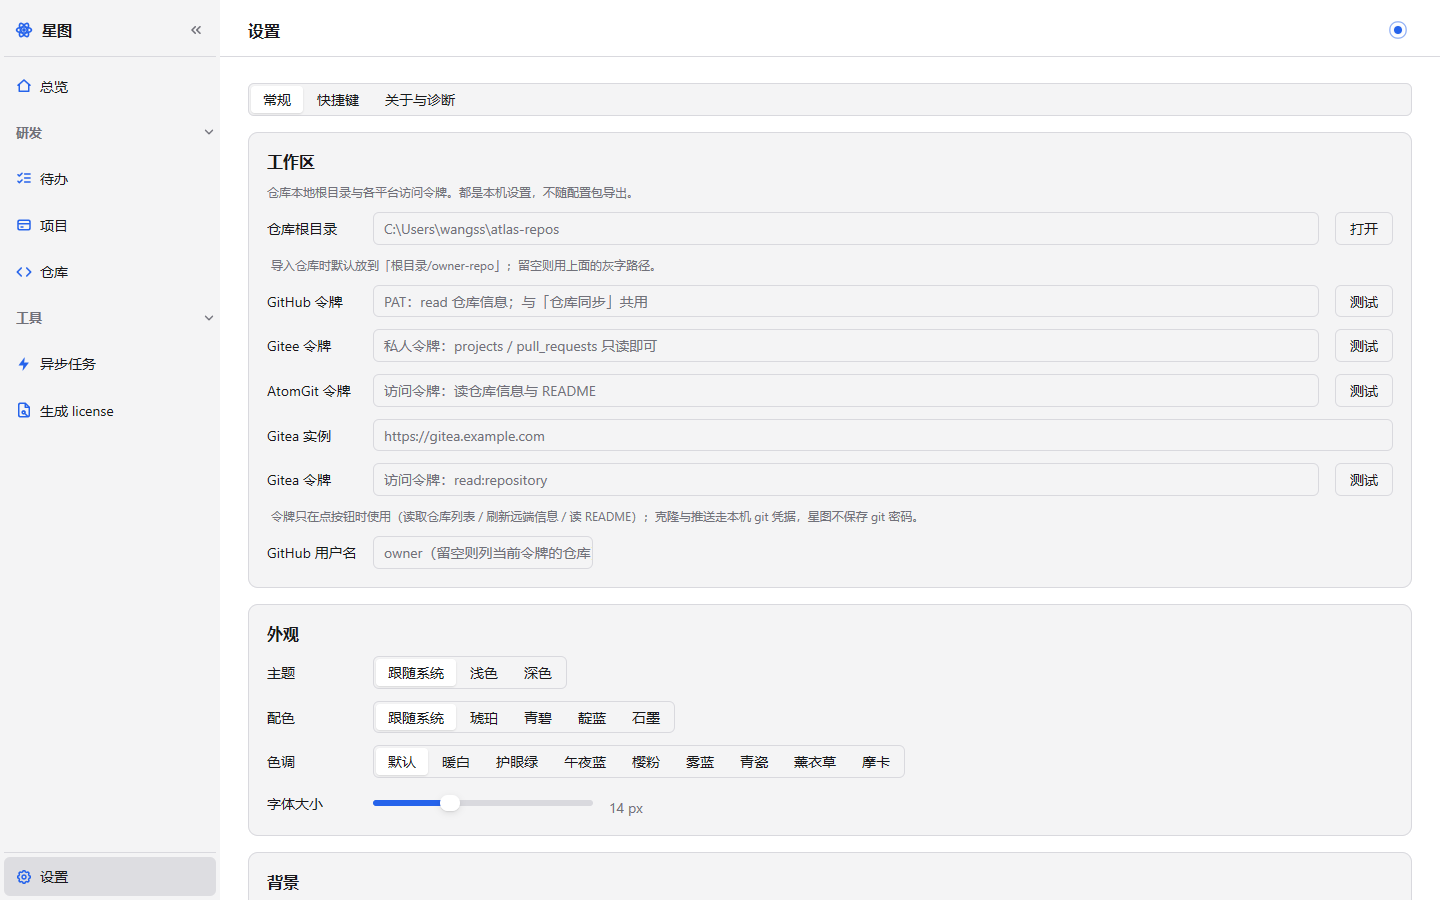
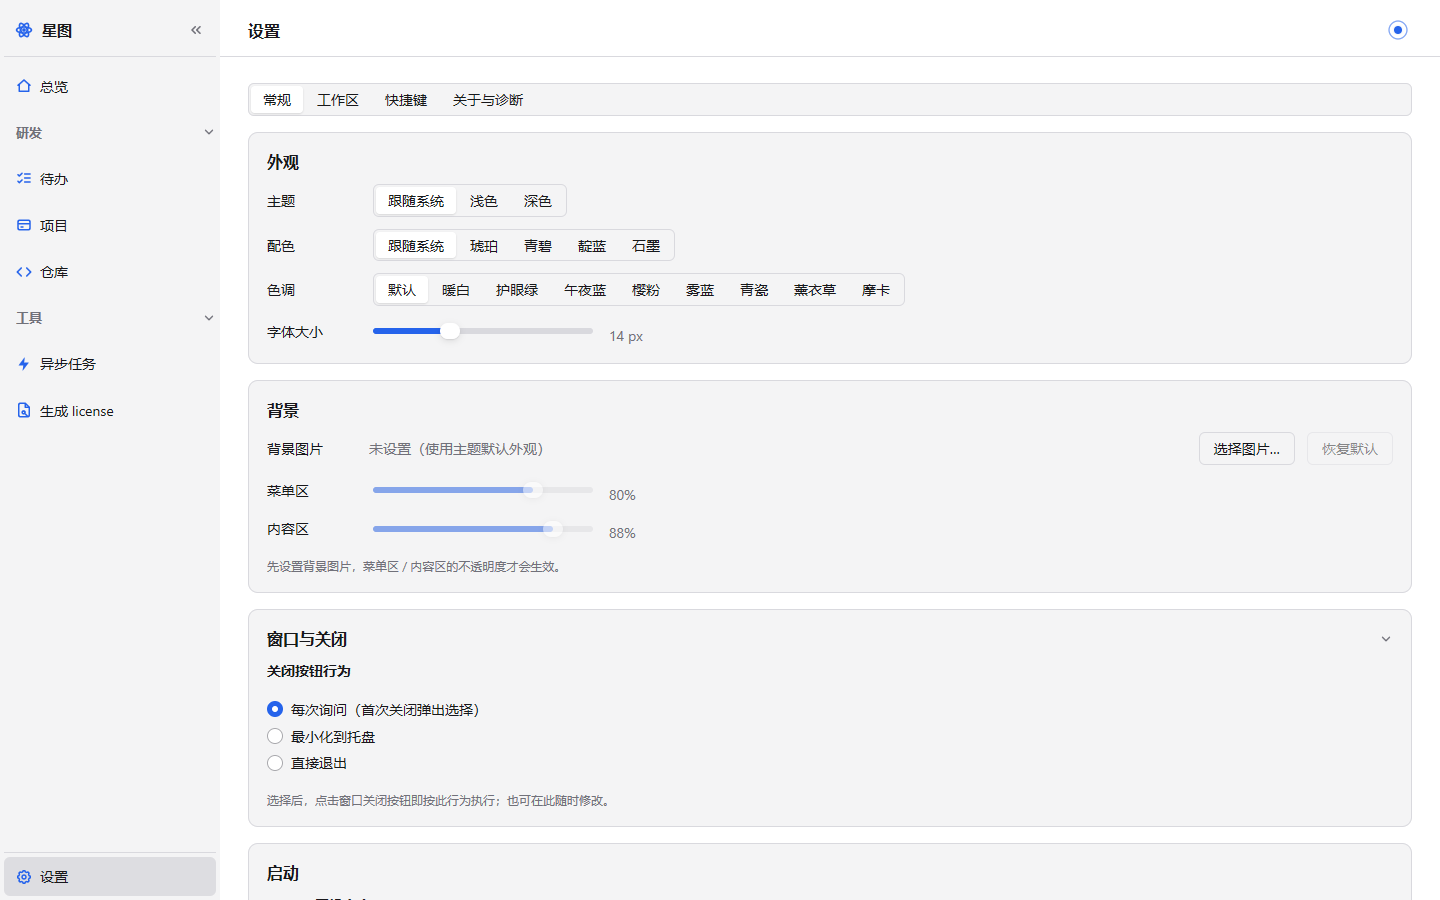
feat: v0.3.1 —— 工作区独立分页，导入改走轻量/重量级任务进度

diff --git a/internal/view/atlas_batch.go b/internal/view/atlas_batch.go
@@ -431,30 +431,91 @@ func (a *App) pickLocalRepos(projectID int64) {
 			case len(dirs) == 0:
 				// 取消：什么都不做，弹窗保持打开，用户可以继续贴地址。
 			default:
-				added, skipped, firstSkip := a.importLocalRepos(dirs, projectID)
-				msg := "已从本地导入 " + itoa(added) + " 个仓库"
-				if skipped > 0 {
-					msg += "，跳过 " + itoa(skipped) + " 个"
-					if firstSkip != "" {
-						msg += "（" + firstSkip + "）"
-					}
-				}
-				a.toast(msg)
-				if added > 0 {
-					a.closeAtlasDialog()
-				}
+				// 选择框已经关闭，剩下的是逐个目录跑 git：交给重量级任务
+				// （全窗口遮罩 + 进度），期间界面不可操作，避免用户以为卡死。
+				a.startLocalImport(dirs, projectID)
 			}
 			a.requestFrame()
 		})
 	}()
 }
 
-// importLocalRepos 解析并登记一批本地目录；返回成功数、跳过数与第一条跳过原因。
+// startLocalImport 在重量级任务里解析并登记一批本地目录。
+//
+// 重量级而不是轻量级：这一步会逐个目录读 .git（几十个目录时可能要数秒），
+// 且中途不该让用户再点一次导入——遮罩 + 进度条正好表达「正在干活，别动」。
+func (a *App) startLocalImport(dirs []string, projectID int64) {
+	if a.heavyRunning || a.taskRunning {
+		a.toast("已有任务在执行，请稍候")
+		return
+	}
+	if a.store == nil {
+		a.toast("本次运行不落库，无法导入")
+		return
+	}
+	// 快照既有的仓库登记：去重逻辑在协程里跑，不能再去读 a.atlas()。
+	existing := append([]store.Repo(nil), a.atlas().repos...)
+	label := "从本地导入（" + itoa(len(dirs)) + " 个文件夹）"
+	// 导入弹窗先关掉：接下来是遮罩的世界，弹窗留在下面没有意义。
+	a.closeAtlasDialog()
+	a.heavyRunning = true
+	a.heavyProgress = 0
+	a.heavyLabel = label
+	a.requestFrame()
+
+	go func() {
+		defer logging.Recover("atlas-local-import")
+
+		added, skipped, firstSkip, failed := a.importLocalCore(dirs, projectID, existing,
+			func(done, total int) {
+				p := float64(done) / float64(total)
+				mygo.RunOnMain(func() {
+					a.heavyProgress = p
+					a.requestFrame()
+				})
+			})
+
+		mygo.RunOnMain(func() {
+			a.heavyRunning = false
+			a.heavyProgress = 0
+			a.heavyLabel = ""
+			a.reloadAtlas()
+
+			status := "已完成"
+			if failed > 0 {
+				status = "失败"
+			}
+			a.pushTaskRow(label+"（导入 "+itoa(added)+" / 跳过 "+itoa(skipped)+"）", "重量级", status)
+			msg := "已从本地导入 " + itoa(added) + " 个仓库"
+			if skipped > 0 {
+				msg += "，跳过 " + itoa(skipped) + " 个"
+				if firstSkip != "" {
+					msg += "（" + firstSkip + "）"
+				}
+			}
+			a.toast(msg)
+			a.requestFrame()
+		})
+	}()
+}
+
+// importLocalRepos 解析并登记一批本地目录（同步版，测试与兜底用）。
 func (a *App) importLocalRepos(dirs []string, projectID int64) (added, skipped int, firstSkip string) {
-	d := a.atlas()
-	byPath := make(map[string]bool, len(d.repos))
-	byName := make(map[string]bool, len(d.repos))
-	for _, r := range d.repos {
+	existing := append([]store.Repo(nil), a.atlas().repos...)
+	added, skipped, firstSkip, _ = a.importLocalCore(dirs, projectID, existing, nil)
+	a.reloadAtlas()
+	return added, skipped, firstSkip
+}
+
+// importLocalCore 逐目录解析并写库；不碰 a.atlas() 与 reloadAtlas，因此可以在
+// 协程里跑（store 自身是串行化的）。done 用于推进进度（可空）。
+//
+// 返回成功数、跳过数、第一条跳过原因、写库失败数。
+func (a *App) importLocalCore(dirs []string, projectID int64, existing []store.Repo,
+	done func(done, total int)) (added, skipped int, firstSkip string, failed int) {
+	byPath := make(map[string]bool, len(existing))
+	byName := make(map[string]bool, len(existing))
+	for _, r := range existing {
 		byPath[strings.ToLower(filepath.Clean(r.LocalPath))] = true
 		byName[strings.ToLower(r.Name)] = true
 	}
@@ -464,15 +525,17 @@ func (a *App) importLocalRepos(dirs []string, projectID int64) (added, skipped i
 			firstSkip = reason
 		}
 	}
-	for _, dir := range dirs {
+	for i, dir := range dirs {
 		dir = filepath.Clean(strings.TrimSpace(dir))
 		if byPath[strings.ToLower(dir)] {
 			skip(filepath.Base(dir) + "：已在列表里")
+			reportProgress(done, i+1, len(dirs))
 			continue
 		}
 		st := gitx.Inspect(dir)
 		if !st.IsRepo {
 			skip(filepath.Base(dir) + "：不是 git 仓库")
+			reportProgress(done, i+1, len(dirs))
 			continue
 		}
 		name := ""
@@ -487,6 +550,7 @@ func (a *App) importLocalRepos(dirs []string, projectID int64) (added, skipped i
 		}
 		if byName[strings.ToLower(name)] {
 			skip(name + "：同名仓库已存在")
+			reportProgress(done, i+1, len(dirs))
 			continue
 		}
 		r := a.inspectRepo(store.Repo{
@@ -500,15 +564,24 @@ func (a *App) importLocalRepos(dirs []string, projectID int64) (added, skipped i
 		})
 		if _, err := a.store.CreateRepo(r); err != nil {
 			logging.Errv("atlas", "导入本地仓库失败", err, "dir", dir)
+			failed++
 			skip(filepath.Base(dir) + "：写库失败")
+			reportProgress(done, i+1, len(dirs))
 			continue
 		}
 		byPath[strings.ToLower(dir)] = true
 		byName[strings.ToLower(name)] = true
 		added++
+		reportProgress(done, i+1, len(dirs))
 	}
-	a.reloadAtlas()
-	return added, skipped, firstSkip
+	return added, skipped, firstSkip, failed
+}
+
+// reportProgress 安全地回调进度（done 可能为 nil）。
+func reportProgress(done func(done, total int), i, n int) {
+	if done != nil {
+		done(i, n)
+	}
 }
 
 // ---- 远程批量导入 ----

diff --git a/internal/view/page_settings.go b/internal/view/page_settings.go
@@ -38,16 +38,19 @@ func (a *App) settingsPage(c *ui.Context, t *ui.Theme) {
 			a.setSettingsGroup(group)
 		}
 		general := group == settingsGroupGeneral
+		workspace := group == settingsGroupWorkspace
 		shortcuts := group == settingsGroupShortcuts
 		about := group == settingsGroupAbout
 		pages := group == settingsGroupPages
 
-		if general {
-			// ===== 工作区（仓库管理的本机参数）=====
-			// 放在最前：这是本产品最常改的一组设置（根目录 + 各平台令牌），
-			// 不该让人先滚过外观、背景、窗口才看得到。
-			kit.Section(c, t, "工作区", func() { a.workspaceSection(c, t) })
+		// ===== 工作区（仓库管理的本机参数）=====
+		// 单独一页：根目录与四个平台的令牌属于「业务配置」，和主题/字体这类
+		// 外观偏好混在一起时，用户要滚过整页才能找到它。
+		if workspace {
+			a.workspaceSection(c, t)
+		}
 
+		if general {
 			// ===== 外观 =====
 			kit.Section(c, t, "外观", func() {
 				settingRow(c, t, "主题", func() {
@@ -244,6 +247,7 @@ func (a *App) settingsPage(c *ui.Context, t *ui.Theme) {
 // 设置页的分组。顺序即分段控件里的顺序。
 const (
 	settingsGroupGeneral   = iota // 常规：外观 / 背景 / 窗口与关闭 / 启动
+	settingsGroupWorkspace        // 工作区：仓库根目录 + 各平台令牌
 	settingsGroupShortcuts        // 快捷键
 	settingsGroupAbout            // 关于与诊断
 	settingsGroupPages            // 页面：各页面自己声明的设置（没有时不显示这一页）
@@ -255,7 +259,7 @@ const (
 // 对用户没有意义，还会让别人以为页面设置是必须的。页面是否注册在编译期就定了，
 // 所以这个列表在一次运行里不会变。
 func settingsGroupLabels() []string {
-	labels := []string{"常规", "快捷键", "关于与诊断"}
+	labels := []string{"常规", "工作区", "快捷键", "关于与诊断"}
 	if len(pageSettingItems()) > 0 {
 		labels = append(labels, "页面")
 	}
@@ -281,7 +285,10 @@ func (a *App) setSettingsGroup(g int) {
 }
 
 // settingsGroupKey 当前分组在页面私有状态里的键名。
-const settingsGroupKey = "group"
+//
+// 带 -v2：分组顺序在 v0.3.0 变过（插入「工作区」），旧的下标会被解读成别的页，
+// 换个键名等于「老用户这次回到默认页」，比停在一个奇怪的页面上好。
+const settingsGroupKey = "group-v2"
 
 // settingsOpenKey 分区折叠状态在页面私有状态里的键名。
 const settingsOpenKey = "section-open"

diff --git a/internal/view/atlas_test.go b/internal/view/atlas_test.go
@@ -97,7 +97,7 @@ func TestPagesRenderWithData(t *testing.T) {
 		{"todos", []string{"待办", "把仓库页接上批量推送", "详细填写…"}},
 		{"projects", []string{"项目", "星图", "1 仓库"}},
 		{"repos", []string{"lark203/bestuav-atlas", RepoDirty, "刷新状态", "3 改"}},
-		{"settings", []string{"工作区", "仓库根目录", "GitHub 令牌"}},
+		{"settings", []string{"常规", "工作区", "快捷键", "关于与诊断"}},
 	}
 	for _, tc := range cases {
 		t.Run(tc.page, func(t *testing.T) {
@@ -113,6 +113,23 @@ func TestPagesRenderWithData(t *testing.T) {
 				}
 			}
 		})
+	}
+}
+
+// TestWorkspaceSettingsTab 工作区单独一页：根目录与四个平台的令牌都在这里。
+func TestWorkspaceSettingsTab(t *testing.T) {
+	a, _ := newTestApp(t)
+	a.pageStat(settingsPageID).data[settingsGroupKey] = settingsGroupWorkspace
+
+	tt := renderPage(t, a, "settings")
+	for _, want := range []string{"仓库根目录", "GitHub 令牌", "Gitee 令牌", "AtomGit 令牌", "Gitea 实例"} {
+		if !tt.HasText(want) {
+			t.Errorf("工作区页缺少 %q；实际文本：%v", want, tt.Texts())
+		}
+	}
+	// 常规页的外观设置不应同时出现（一次只渲染一组）。
+	if tt.HasText("字体大小") {
+		t.Errorf("工作区页不应渲染常规页的外观设置")
 	}
 }
 

diff --git a/internal/view/atlas_dialogs.go b/internal/view/atlas_dialogs.go
@@ -393,9 +393,13 @@ func (a *App) importDialog(c *ui.Context, t *ui.Theme) {
 					msg += "，跳过 " + itoa(skipped) + " 个（重复或格式不对）"
 				}
 				a.toast(msg)
+				// 列表这时已经出现（导入只写元数据），随后的克隆/探测走轻量任务：
+				// 页头进度条 + 界面照常可用。
 				switch {
 				case clone && len(ids) > 0:
 					a.cloneRepos(ids)
+				case len(ids) > 0:
+					a.runRepoBatch(batchInspect, ids, "")
 				default:
 					a.inspectAllAsync()
 				}

diff --git a/internal/view/screens_test.go b/internal/view/screens_test.go
@@ -100,4 +100,11 @@ func TestScreenshots(t *testing.T) {
 	a.closeAtlasDialog()
 	a.openCommitDialog([]int64{1, 2})
 	save("atlas-dialog-commit")
+
+	// 重量级任务：本地导入时的全窗口遮罩 + 进度。
+	a.closeAtlasDialog()
+	a.heavyRunning = true
+	a.heavyProgress = 0.45
+	a.heavyLabel = "从本地导入（6 个文件夹）"
+	save("atlas-heavy-import")
 }

diff --git a/docs/使用说明.md b/docs/使用说明.md
@@ -61,6 +61,12 @@
 **导入后克隆**：勾上「导入后克隆」，远程仓库会被 `git clone` 到「本地根目录/owner-repo」，
 进度显示在页头，已有内容的目录不会被覆盖。不勾就只登记元数据，状态显示「未克隆」。
 
+**进度表现**：
+- **本地导入**是重量级任务——原生选择框关闭后，导入弹窗立即关闭，整个窗口变暗并显示进度条，
+  逐个目录解析（期间不可操作），完成后记进「工具 → 异步任务」；
+- **远程导入**先把仓库写进列表（立刻能看到行），随后的「克隆 / 刷新状态」是轻量任务——
+  进度条在页头浅线处，界面照常可以用。
+
 ### 4.2 表格
 
 每行一个仓库，列固定：
@@ -111,7 +117,7 @@
 
 ## 五、设置
 
-- **工作区**：仓库根目录（导入时的默认落点）、各平台令牌（GitHub / Gitee / AtomGit / Gitea），
+- **工作区（独立分页）**：仓库根目录、各平台令牌（GitHub / Gitee / AtomGit / Gitea），
   Gitea 还要填实例地址；每行都有「测试」按钮，会拉一次该平台的仓库列表验证连通性。
 - GitHub 令牌与「关于与诊断 → 数据与诊断 → 仓库同步」共用同一个。
 - 令牌只用于「读列表 / 读元信息 / 读 README」；**克隆与推送不用令牌**，走你本机已配置的 git 凭据。

diff --git a/CHANGELOG.md b/CHANGELOG.md
@@ -1,5 +1,16 @@
 # 变更记录
 
+## 0.3.1
+
+设置与导入的交互调整（真机试用后的反馈）。
+
+- **设置新增「工作区」分页**：仓库根目录与四个平台的令牌从「常规」里搬出来，单独一页；
+  分组下标换键（`group-v2`），老用户的旧分组记录不会串页。
+- **本地导入改走重量级任务**：选完文件夹（原生对话框关闭）后，导入弹窗立即关闭，
+  全窗口遮罩 + 进度条逐个目录解析（期间界面不可操作），完成后写入任务记录。
+- **远程导入先入库再跑进度**：点「导入远程仓库」后仓库立刻出现在列表里，
+  随后的克隆或状态探测走轻量任务（页头进度条，界面照常可用）。
+
 ## 0.3.0
 
 多平台仓库与「导入后克隆」。
